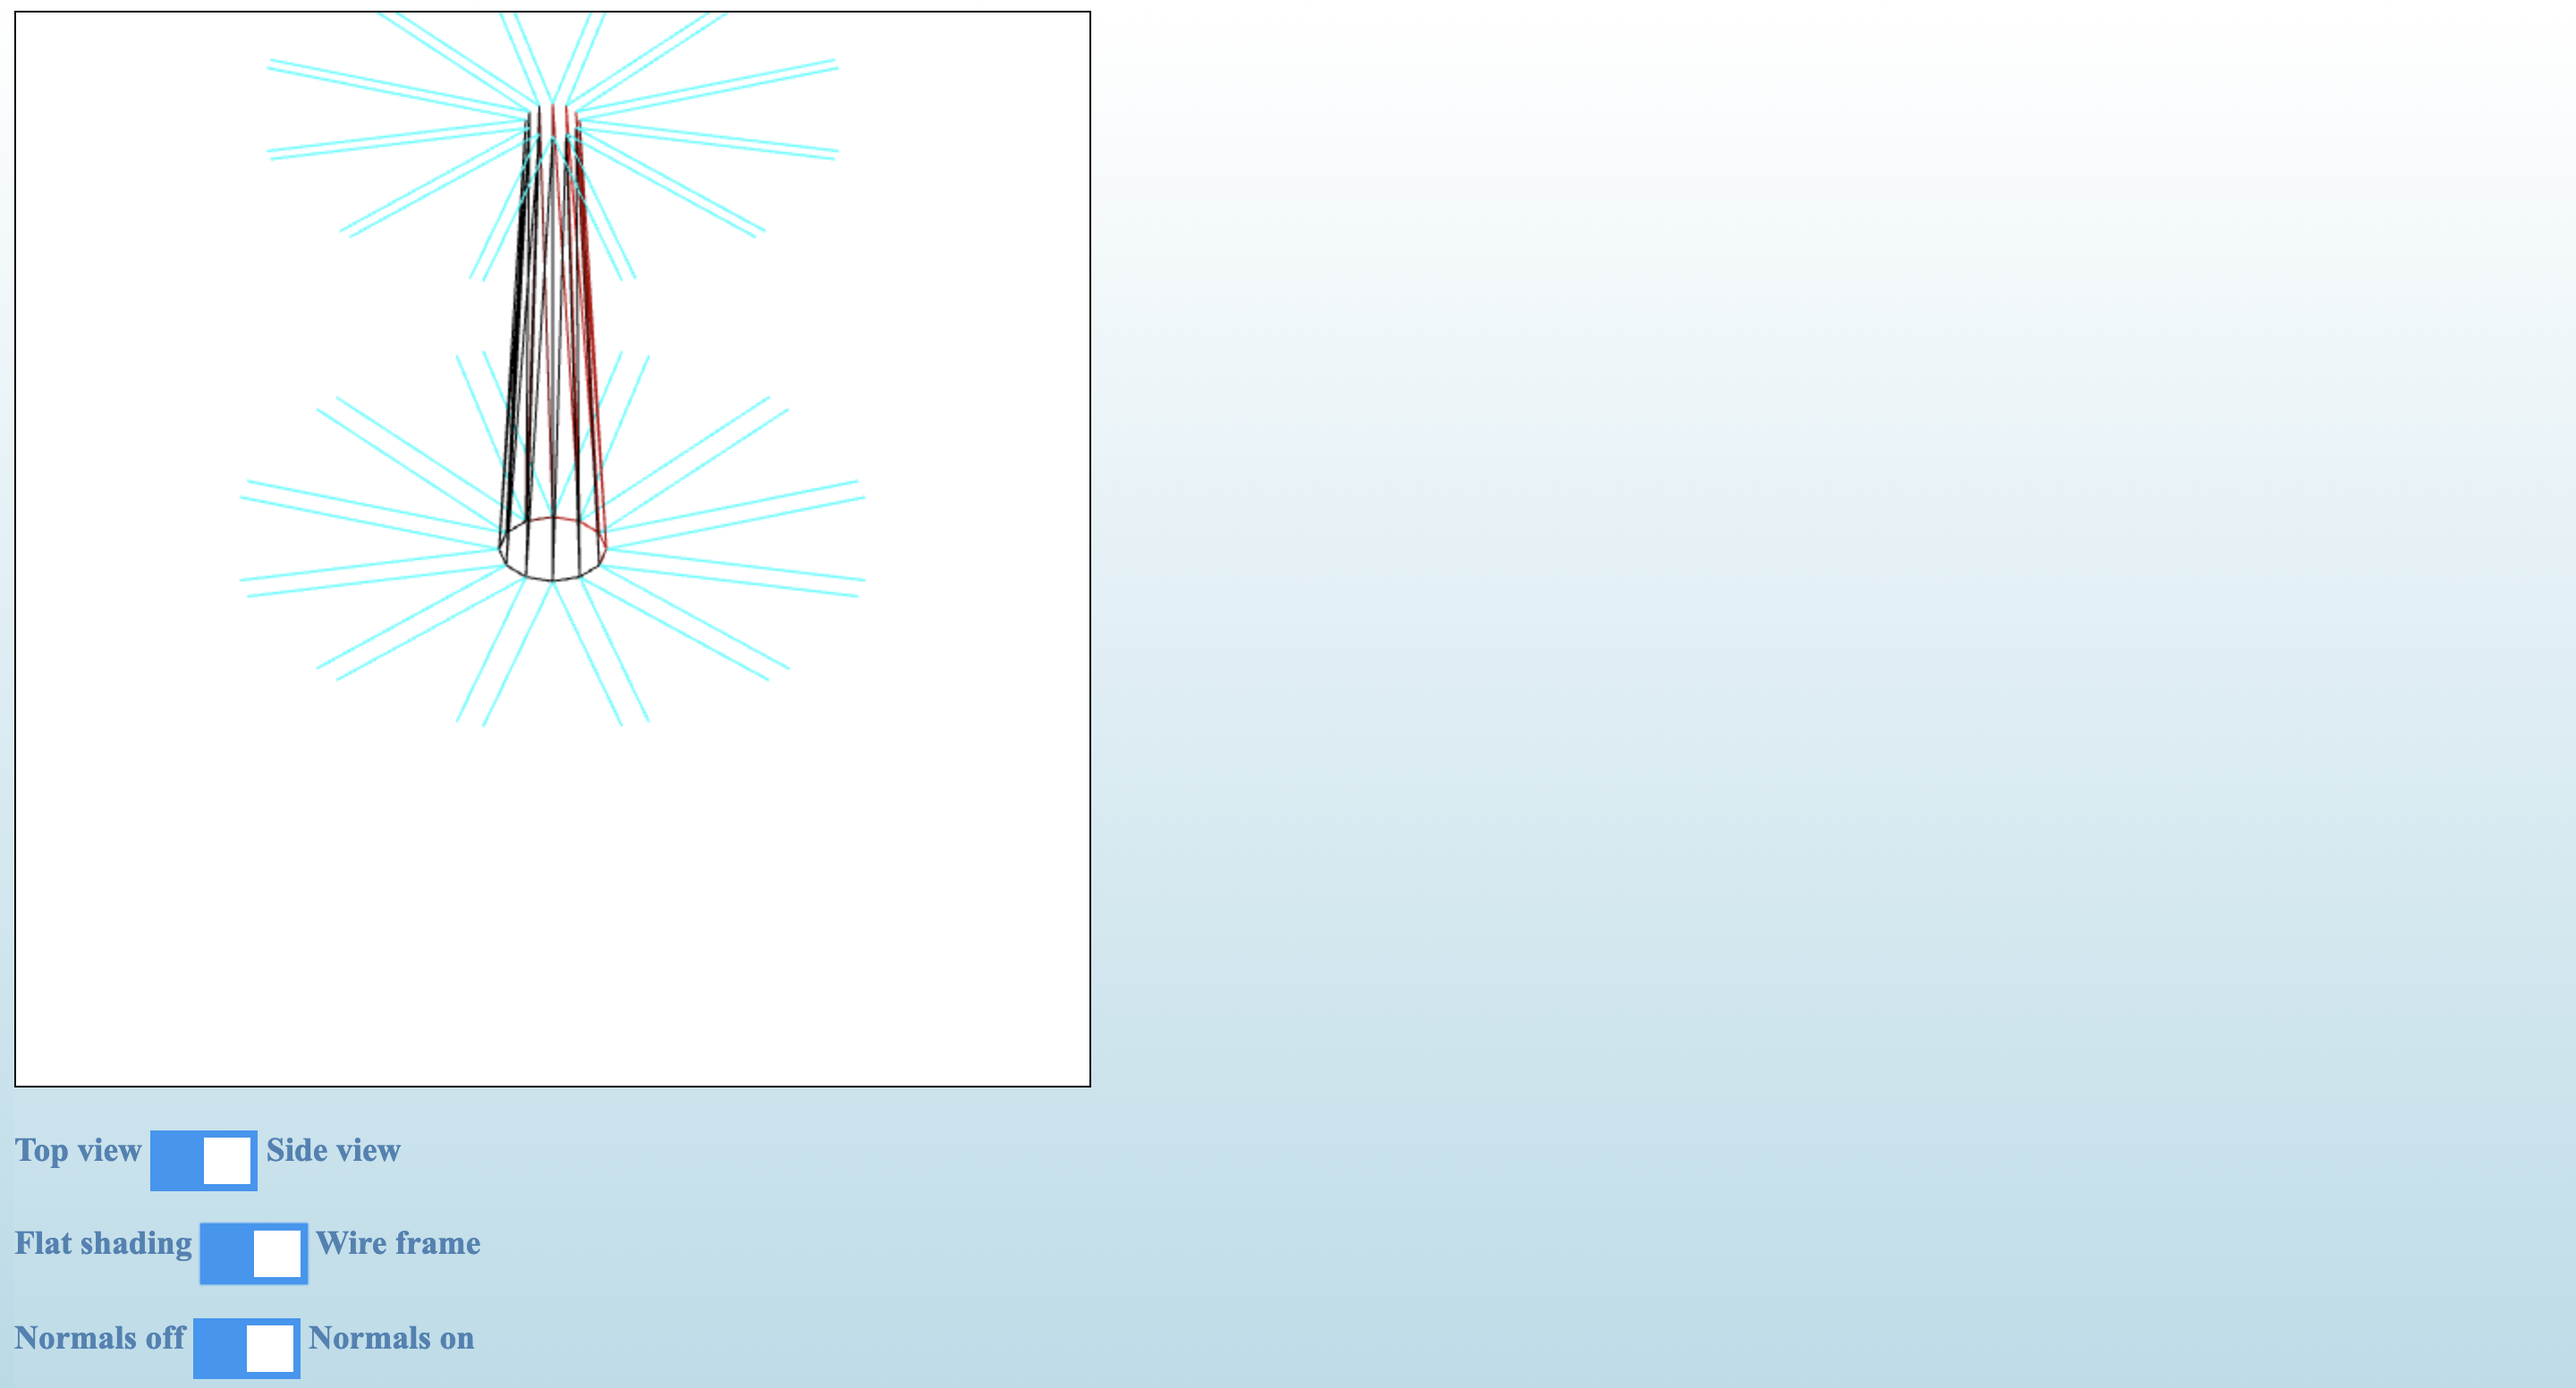
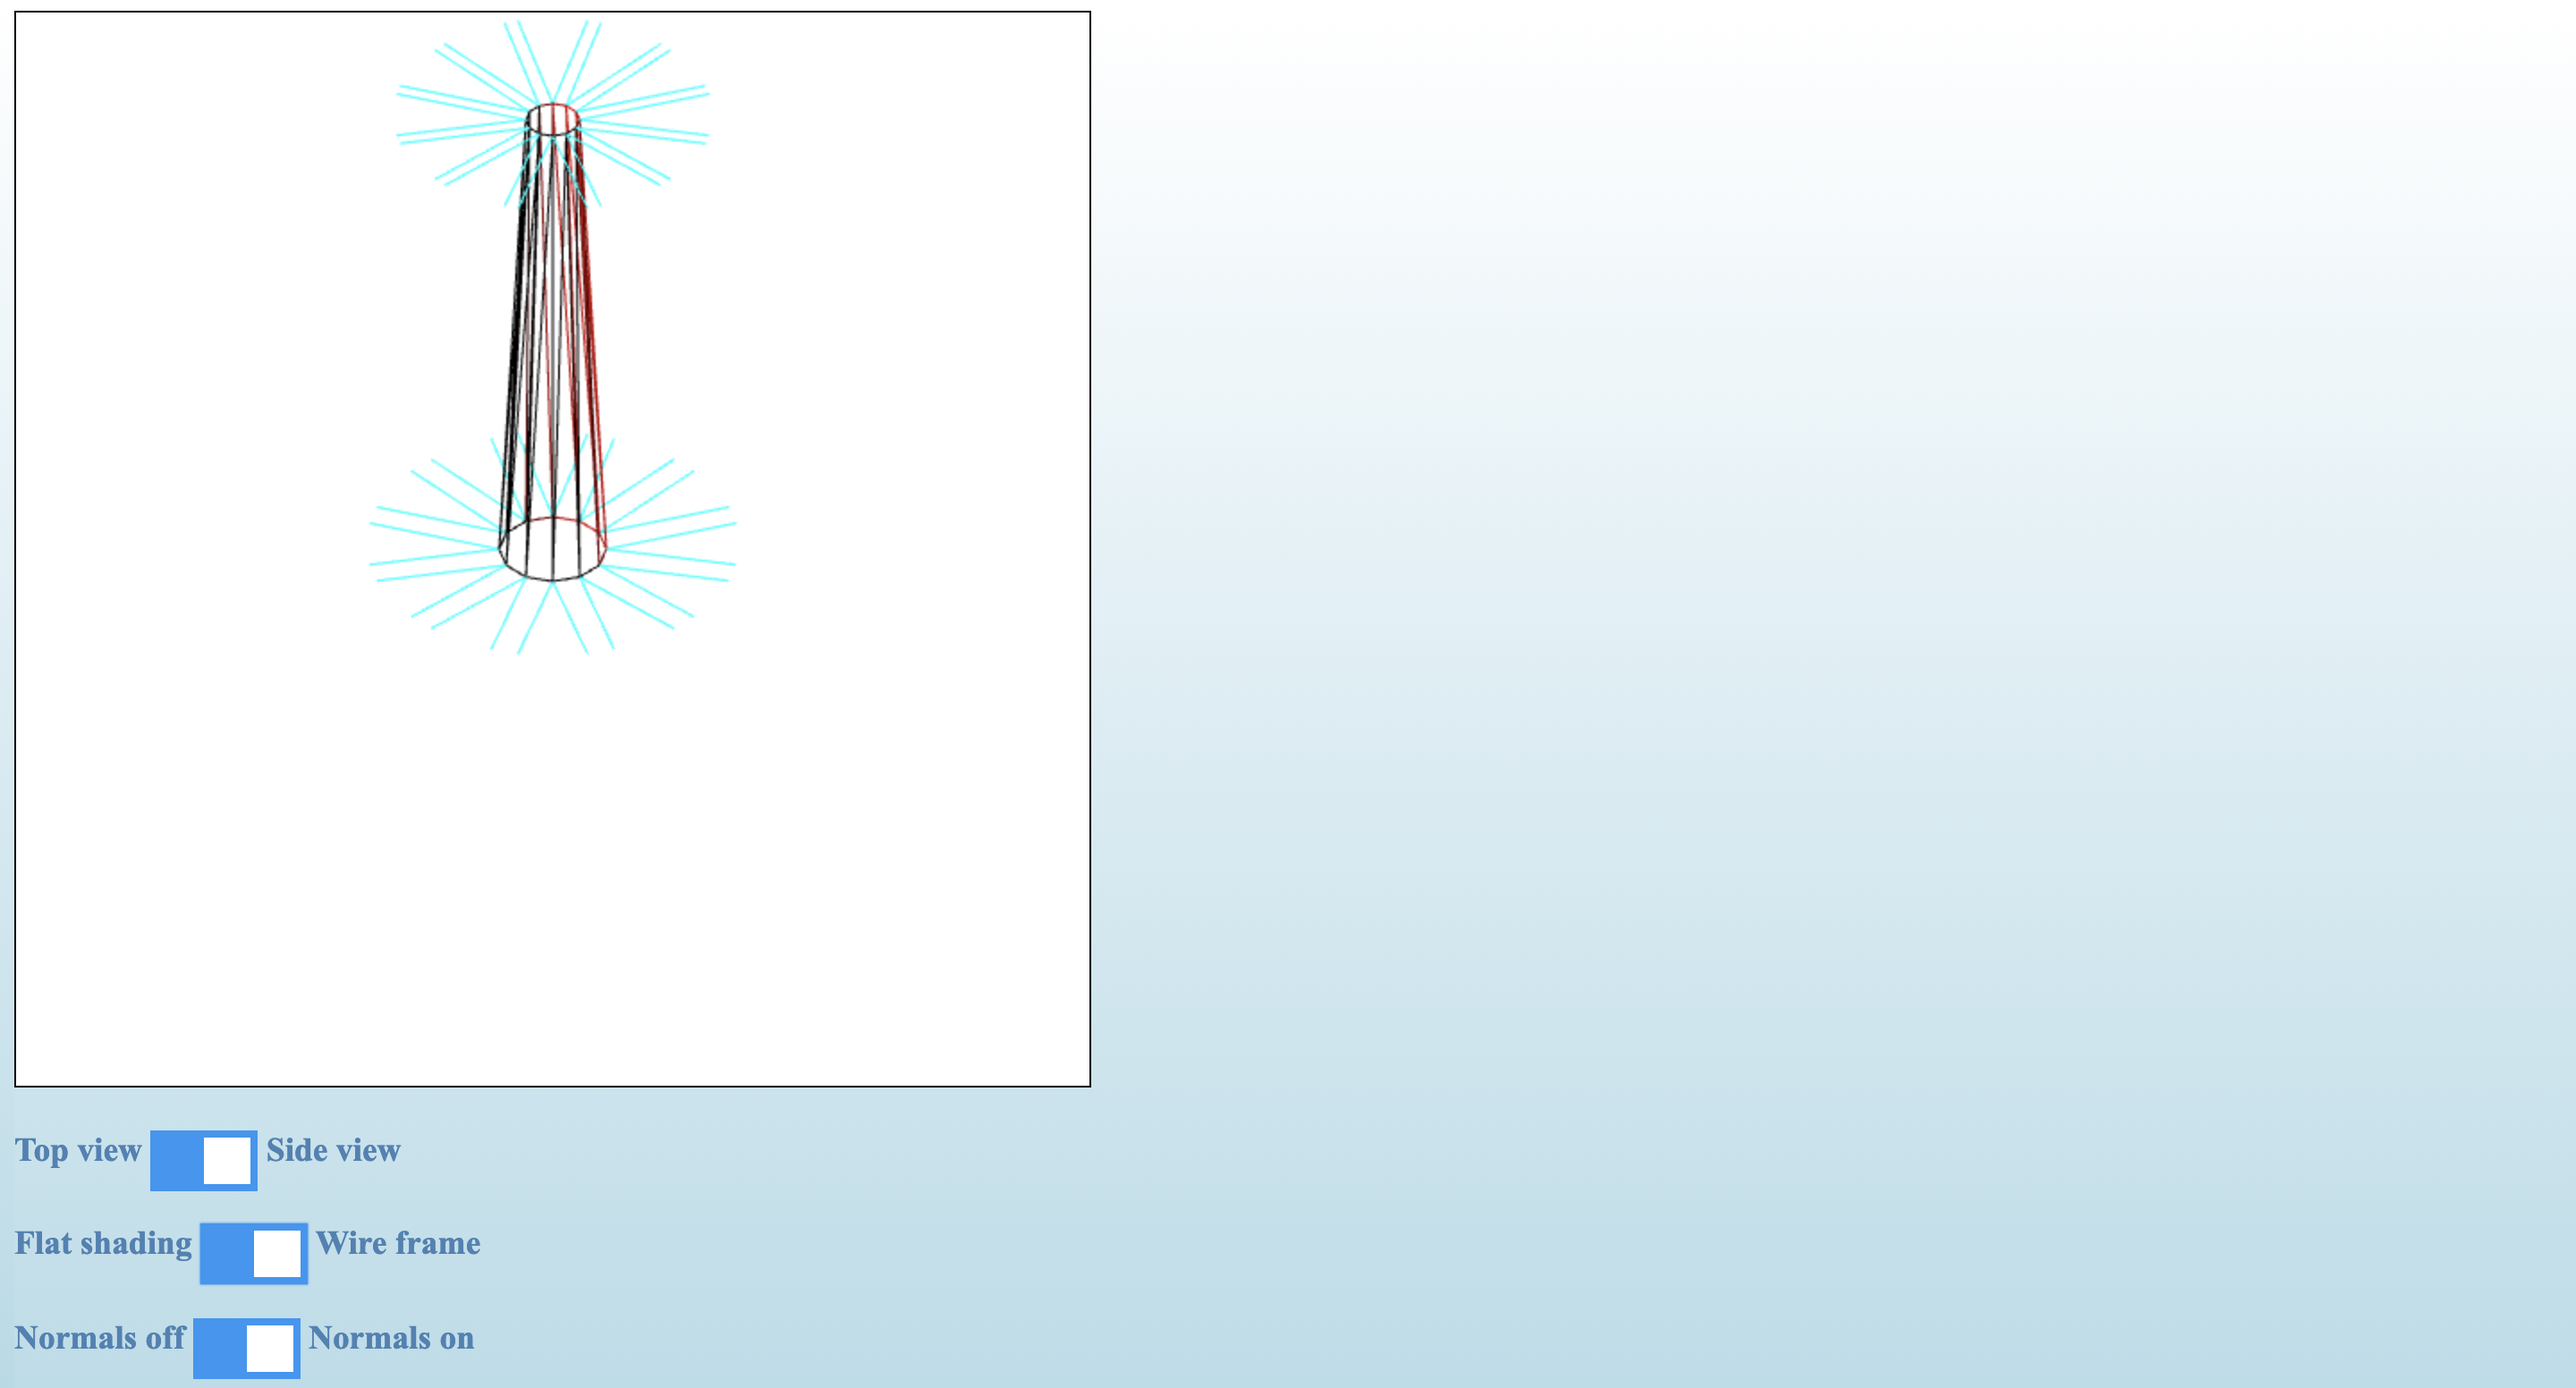
10/19/19

diff --git a/lab2/tc.js b/lab2/tc.js
@@ -81,7 +81,7 @@ function main() {
     cylinderProgram.u_LightColor = gl.getUniformLocation(cylinderProgram, 'u_LightColor');
     cylinderProgram.u_LightDirection = gl.getUniformLocation(cylinderProgram, 'u_LightDirection');
     if (cylinderProgram.a_Position < 0 || cylinderProgram.a_Color < 0 || cylinderProgram.a_Normal < 0 ||
-        cylinderProgram.u_ViewMatrix < 0 || cylinderProgram.u_ProjMatrix < 0 || cylinderProgram.u_LightColor < 0 || 
+        cylinderProgram.u_ViewMatrix < 0 || cylinderProgram.u_ProjMatrix < 0 || cylinderProgram.u_LightColor < 0 ||
         cylinderProgram.u_LightDirection < 0) {
         console.log('Failed to locate variables for cylinder');
         return -1;
@@ -198,7 +198,7 @@ function setTopView(gl, cylinderProgram, lineProgram) {
         initLightColor(gl, cylinderProgram);
         initLightDirection(gl, cylinderProgram);
         initMatrix(gl, cylinderProgram, lineProgram, 0, 0); // The last but one parameter is to choose cylinderProgram.
-                                                            // The last parameter is to choose a top view.
+        // The last parameter is to choose a top view.
 
         // Specify the color for clearing <canvas>
         gl.clearColor(1.0, 1.0, 1.0, 1.0);
@@ -378,9 +378,9 @@ function setViewNormals() {
         shown.push(points[i + 1]);
         shown.push(points[i + 2]);
         // These 3 values are the ending point of the normal.
-        shown.push(n[i] / 2 + points[i]);
-        shown.push(n[i + 1] / 2 + points[i + 1]);
-        shown.push(n[i + 2] / 2 + points[i + 2]);
+        shown.push(n[i] / 4 + points[i]);
+        shown.push(n[i + 1] / 4 + points[i + 1]);
+        shown.push(n[i + 2] / 4 + points[i + 2]);
     }
 }
 
@@ -461,15 +461,15 @@ function generate_tc() {
         bottomy.push(bottom_y);
     }
     for (var i = 0; i < 12; i++) {
+        points.push(topx[i + 1]);
+        points.push(topy[i + 1]);
+        points.push(height);
         points.push(topx[i]);
         points.push(topy[i]);
         points.push(height);
         points.push(bottomx[i]);
         points.push(bottomy[i]);
         points.push(0.0);
-        points.push(topx[i + 1]);
-        points.push(topy[i + 1]);
-        points.push(height);
         points.push(topx[i + 1]);
         points.push(topy[i + 1]);
         points.push(height);
